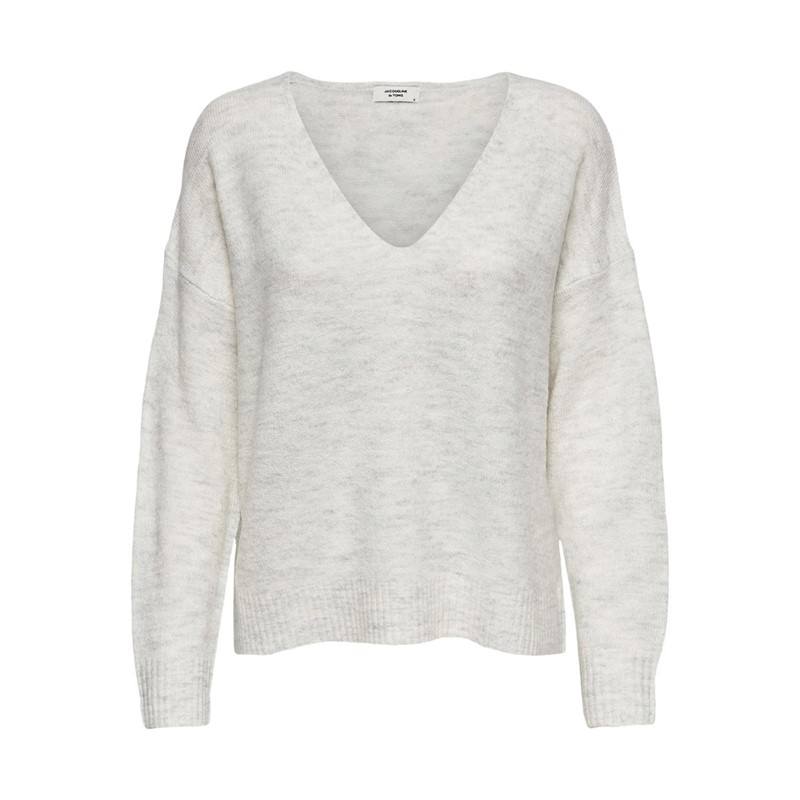
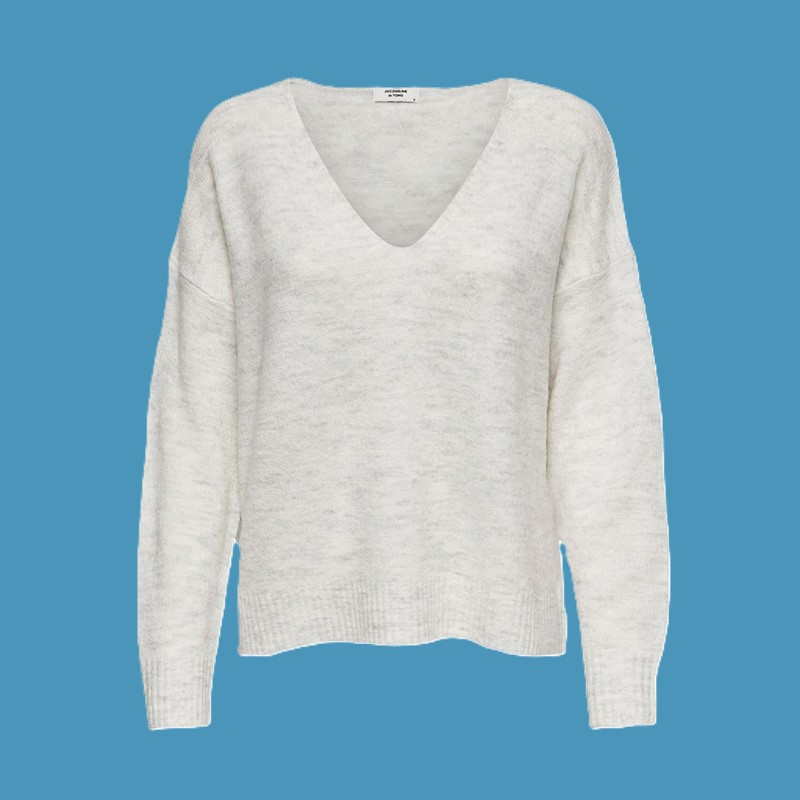
toejbutikStyling

diff --git a/toejbutik/src/components/MainPage.js b/toejbutik/src/components/MainPage.js
@@ -3,7 +3,7 @@ import PieceOfClothing from "./PieceOfClothing";
 function Mainpage(){
     const data = [
         {id: 1, src: "1302151-22.w610.h610.fill.webp", title: "Jumper", price: "129.99", size: "S", color: "Black", model: "Jumper", description: "A black jumper with a red stripe on the chest."},
-        {id: 2, src: "APOF_Adine_Sienna_Blue_1.webp", title: "Jumper", price: "129.99", size: "S", color: "Black", model: "Jumper", description: "A black jumper with a red stripe on the chest."},
+        {id: 2, src: "APOF_Adine_Sienna_Blue_1.jpg", title: "Jumper", price: "129.99", size: "S", color: "Black", model: "Jumper", description: "A black jumper with a red stripe on the chest."},
         {id: 3, src: "jc30044_1_cloudzoom.jpg", title: "Jumper", price: "129.99", size: "S", color: "Black", model: "Jumper", description: "A black jumper with a red stripe on the chest."},
         {id: 4, src: "toej-uden-tryk.png", title: "Jumper", price: "129.99", size: "S", color: "Black", model: "Jumper", description: "A black jumper with a red stripe on the chest."},
     ]

diff --git a/toejbutik/src/components/PieceOfClothing.js b/toejbutik/src/components/PieceOfClothing.js
@@ -3,11 +3,13 @@ const PieceOfClothingStyle = {
     justifyContent: "flex-start",
     alignItems: "center",
     padding: "10px",
-    border: "1px solid black",
     margin: "10px",
     position: "relative",
     height: "130px",
     gap: "10px",
+    backgroundColor: "#4a95b9",
+    borderRadius: "10px",
+    color: "white",
 }
 const PieceOfClothingInfoStyle = {
     display: "flex",

diff --git a/toejbutik/src/App.css b/toejbutik/src/App.css
@@ -22,6 +22,7 @@
   justify-content: center;
   font-size: calc(10px + 2vmin);
   color: white;
+  
 }
 
 .App-link {
